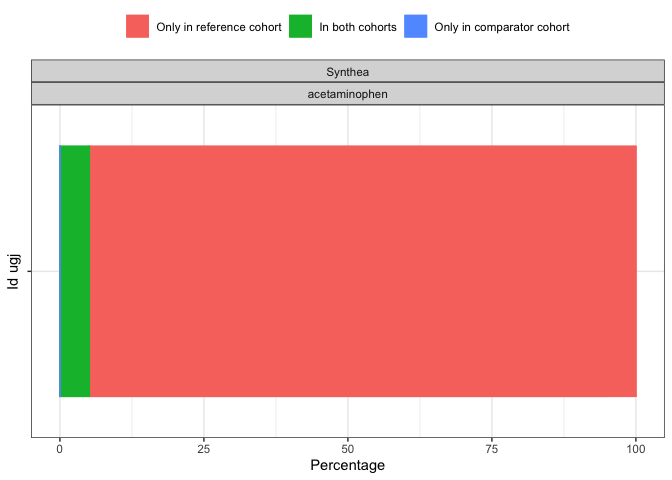
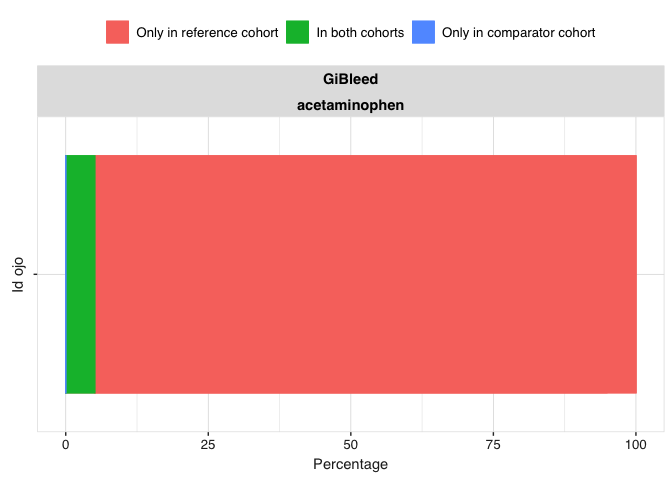
release 1.1.3

diff --git a/README.md b/README.md
@@ -16,20 +16,26 @@ table has been created, CohortCharacteristics provides a number of
 functions to help provide a summary of the characteristics of the
 individuals within the cohort.
 
-    #> To cite package 'CohortCharacteristics' in publications use:
+    #> To cite CohortCharacteristics package in publications please use:
     #> 
-    #>   Catala M, Guo Y, Lopez-Guell K, Burn E, Mercade-Besora N, Alcalde M
-    #>   (????). _CohortCharacteristics: Summarise and Visualise
-    #>   Characteristics of Patients in the OMOP CDM_. R package version
-    #>   1.0.1, <https://darwin-eu.github.io/CohortCharacteristics/>.
+    #>   Du M, Prats-Uribe A, Mercadé-Besora N, Lopez-Guell K, Guo Y,
+    #>   Alcalde-Herraiz M, Chen X, Delmestri A, Man WY, Duarte-Salles T,
+    #>   Palomar A, Giuliodori A, Brađašević E, Jezidžić A, Bräuner E, Bruun
+    #>   S, Verhamme K, Mosseveld M, Brash JT, Vojinovic D, Kaczmarczyk I,
+    #>   Mendez A, Rijnbeek P, Prieto-Alhambra D, Burn E, Català M (2026).
+    #>   "CohortCharacteristics: an R package for population characterisation
+    #>   in observational studies using the OMOP common data model." _European
+    #>   Journal of Epidemiology_. doi:10.1007/s10654-025-01352-4
+    #>   <https://doi.org/10.1007/s10654-025-01352-4>.
     #> 
     #> A BibTeX entry for LaTeX users is
     #> 
-    #>   @Manual{,
-    #>     title = {CohortCharacteristics: Summarise and Visualise Characteristics of Patients in the OMOP CDM},
-    #>     author = {Marti Catala and Yuchen Guo and Kim Lopez-Guell and Edward Burn and Nuria Mercade-Besora and Marta Alcalde},
-    #>     note = {R package version 1.0.1},
-    #>     url = {https://darwin-eu.github.io/CohortCharacteristics/},
+    #>   @Article{,
+    #>     title = {CohortCharacteristics: an R package for population characterisation in observational studies using the OMOP common data model},
+    #>     author = {Mike Du and Albert Prats-Uribe and Núria Mercadé-Besora and Kim Lopez-Guell and Yuchen Guo and Marta Alcalde-Herraiz and Xihang Chen and Antonella Delmestri and Wai Yi Man and Talita Duarte-Salles and Anna Palomar and Agustina Giuliodori and Emanuel Brađašević and Antea Jezidžić and Elvira Bräuner and Susanne Bruun and Katia Verhamme and Mees Mosseveld and James T. Brash and Dina Vojinovic and Isabella Kaczmarczyk and Akram Mendez and Peter Rijnbeek and Daniel Prieto-Alhambra and Edward Burn and Martí Català},
+    #>     journal = {European Journal of Epidemiology},
+    #>     year = {2026},
+    #>     doi = {10.1007/s10654-025-01352-4},
     #>   }
 
 ## Package installation
@@ -78,22 +84,20 @@ The package contain three types of functions:
 
 Although the package provides some simple mock data for testing
 (`mockCohortCharacteristics()`), for these examples we will use the
-GiBleed dataset that can be downloaded using the CDMConnector package
-that will give us some more real results.
+GiBleed dataset that can be downloaded using the omock package that will
+give us some synthetic data results.
 
 ``` r
-library(CDMConnector)
-library(duckdb)
+library(omock)
 library(dplyr, warn.conflicts = FALSE)
-requireEunomia()
-con <- dbConnect(duckdb(), eunomiaDir())
-cdm <- cdmFromCon(con = con, cdmSchema = "main", writeSchema = "main")
+library(DrugUtilisation)
+
+cdm <- mockCdmFromDataset(datasetName = "GiBleed", source = "duckdb")
 ```
 
 Let’s create a simple cohort:
 
 ``` r
-library(DrugUtilisation)
 cdm <- generateIngredientCohortSet(cdm = cdm, name = "my_cohort", ingredient = c("warfarin", "acetaminophen"))
 ```
 
@@ -108,7 +112,7 @@ result |>
 #> Rows: 4
 #> Columns: 13
 #> $ result_id        <int> 1, 1, 1, 1
-#> $ cdm_name         <chr> "Synthea", "Synthea", "Synthea", "Synthea"
+#> $ cdm_name         <chr> "GiBleed", "GiBleed", "GiBleed", "GiBleed"
 #> $ group_name       <chr> "cohort_name", "cohort_name", "cohort_name", "cohort_…
 #> $ group_level      <chr> "acetaminophen", "acetaminophen", "warfarin", "warfar…
 #> $ strata_name      <chr> "overall", "overall", "overall", "overall"
@@ -261,8 +265,6 @@ result |>
   plotLargeScaleCharacteristics()
 ```
 
-<img src="man/figures/README-unnamed-chunk-27-1.png" width="100%" />
-
 ``` r
 result |>
   omopgenerics::filterGroup(cohort_name == "acetaminophen") |>
@@ -272,16 +274,6 @@ result |>
 ```
 
 <img src="man/figures/README-unnamed-chunk-28-1.png" width="100%" />
-
-### Disconnect
-
-Disconnect from your database using `CDMConnector::cdmDisconnect()` to
-close the connection or with `mockDisconnect()` to close connection and
-delete the created mock data:
-
-``` r
-mockDisconnect(cdm)
-```
 
 ### Recommendations
 

diff --git a/NEWS.md b/NEWS.md
@@ -1,3 +1,9 @@
+# CohortCharacteristics 1.1.3
+
+* optimise lsc by @edward-burn in #406
+* Update citation by @catalamarti in #408
+* Move CDMConnector to suggests by @catalamarti in #409
+
 # CohortCharacteristics 1.1.2
 
 * Fix tests for duckdb 1.5.0 by @catalamarti in #404
